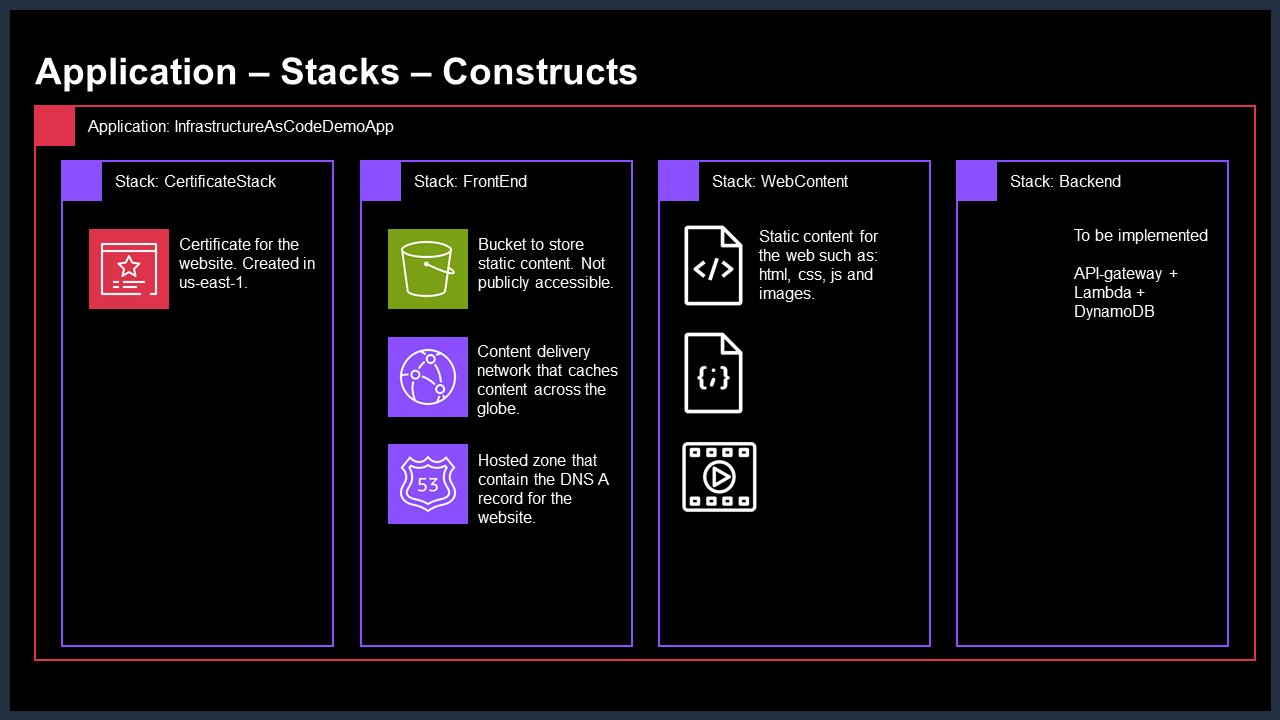
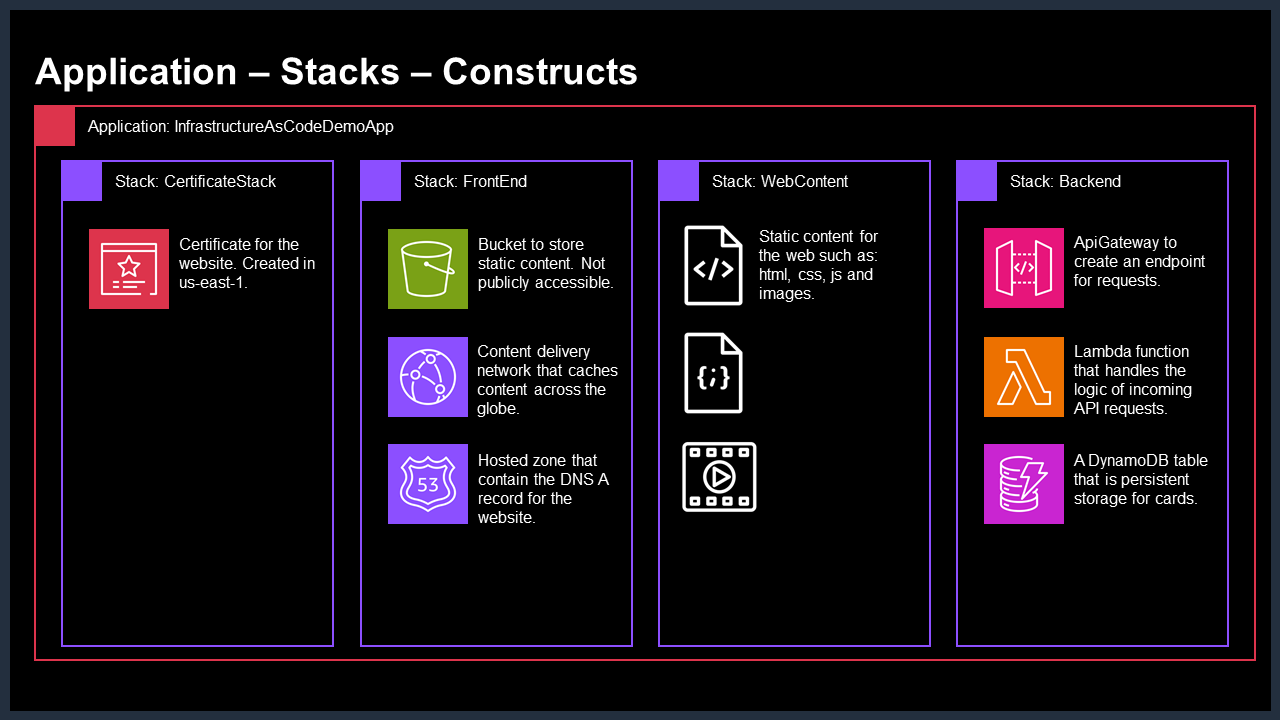
Updated documentation.

Changed region(s): [[0.75, 0.3056, 0.9375, 0.5806], [0.75, 0.6111, 0.9375, 0.7333]]

diff --git a/INSTALL.md b/INSTALL.md
@@ -1,4 +1,5 @@
 # Getting started with this project
+## You need a hosted zone (domain) to deploy this.
 * Create an AWS account
 * Create a role for deployment and generate keys
 * Install AWS CLI https://aws.amazon.com/cli/
@@ -10,10 +11,11 @@
 * Install Maven https://maven.apache.org/download.cgi
 * `git clone https://github.com/andreas-jonasson/InfrastructureAsCodeDemo.git`
 * Build the lambda jar `mvn package`
+* Edit prod.json to reflect your setup
 * Deploy `cdk deploy --all`
 
 
-# Getting started with a new project
+# Getting started with a new project in general
 
 https://docs.aws.amazon.com/cdk/v2/guide/getting_started.html
 

diff --git a/README.md b/README.md
@@ -1,6 +1,8 @@
 # AWS CDK demo
 
-![Front end components](/web/static-site-components.png)
+![Frontend components](/web/static-site-components.png)
+
+![Backend components](/web/backend-components.png)
 
 ![Application - Stacks - Constructs](/web/app-stacks-constructs.png)
 
